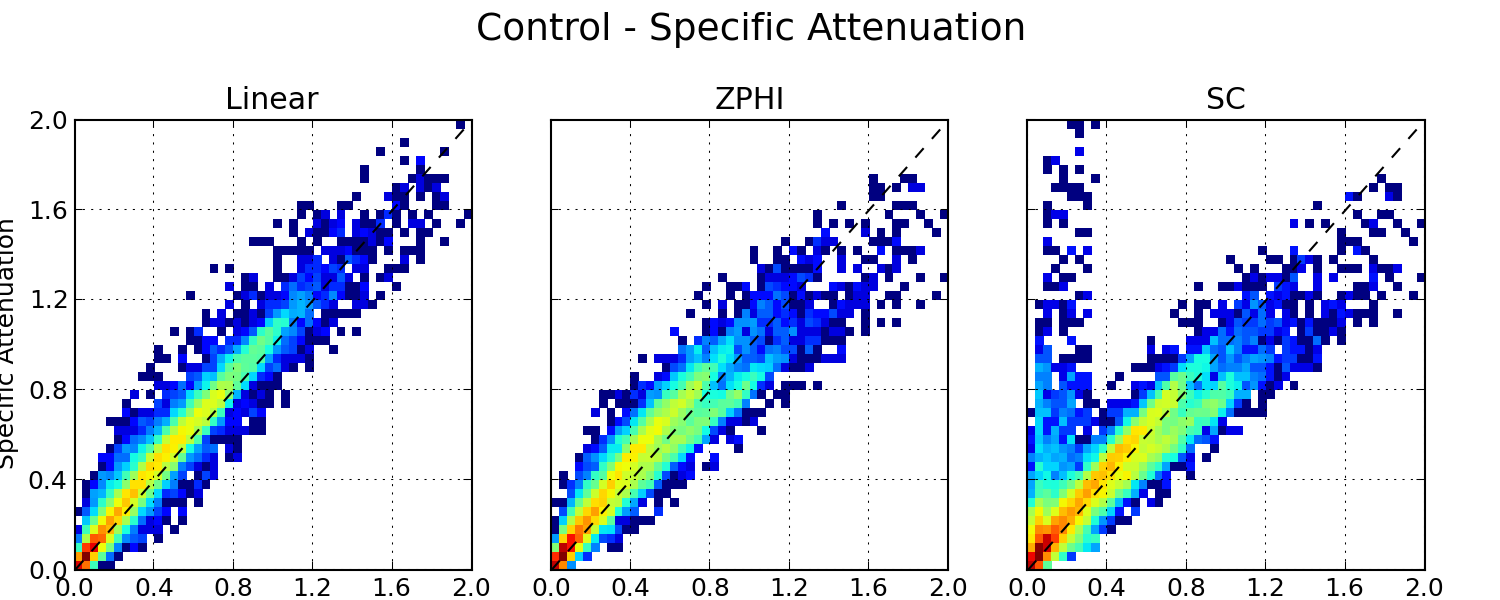
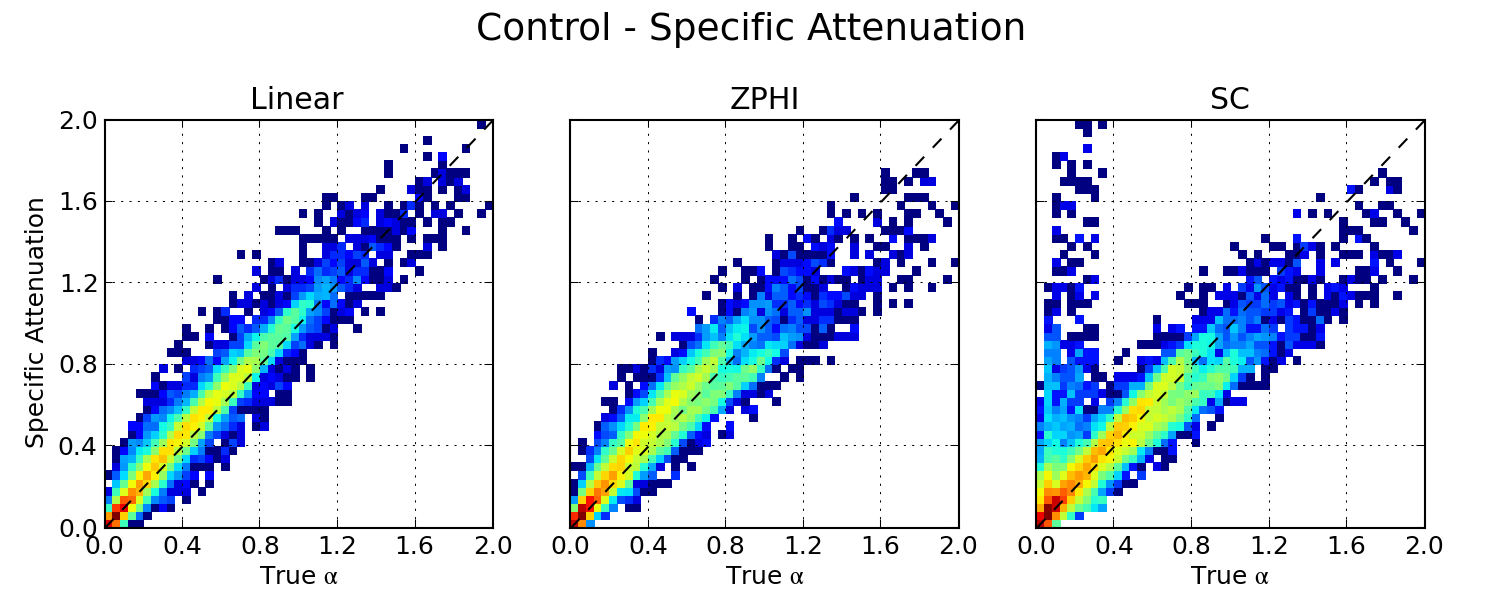
Fix clipping of scatter plots.

diff --git a/Seminar2014/figures/alg_figures.py b/Seminar2014/figures/alg_figures.py
@@ -173,7 +173,7 @@ for lam_text in wavelengths:
                     moments = sorted(moments, key=exp_order)
 
                     fig, axes = plt.subplots(1, len(moments), sharex=True, sharey=True, figsize=(10,4))
-                    fig.subplots_adjust(top=0.8, bottom=0.05)
+                    fig.subplots_adjust(left=0.07, top=0.8, bottom=0.12)
                     for ind, (m, ax) in enumerate(zip(moments, axes)):
                         alg_field = data.fields[m]
                         mask = (ref_field > 0.02) & (alg_field > 0.02)
@@ -187,6 +187,7 @@ for lam_text in wavelengths:
                         l.set_verticalalignment('bottom')
                         if ind == 0:
                             ax.set_ylabel(mom.name)
+                        ax.set_xlabel('True ' + mom.abbr)
 
                     axes[0].set_xlim(0.0, None)
                     axes[0].set_ylim(0.0, None)
